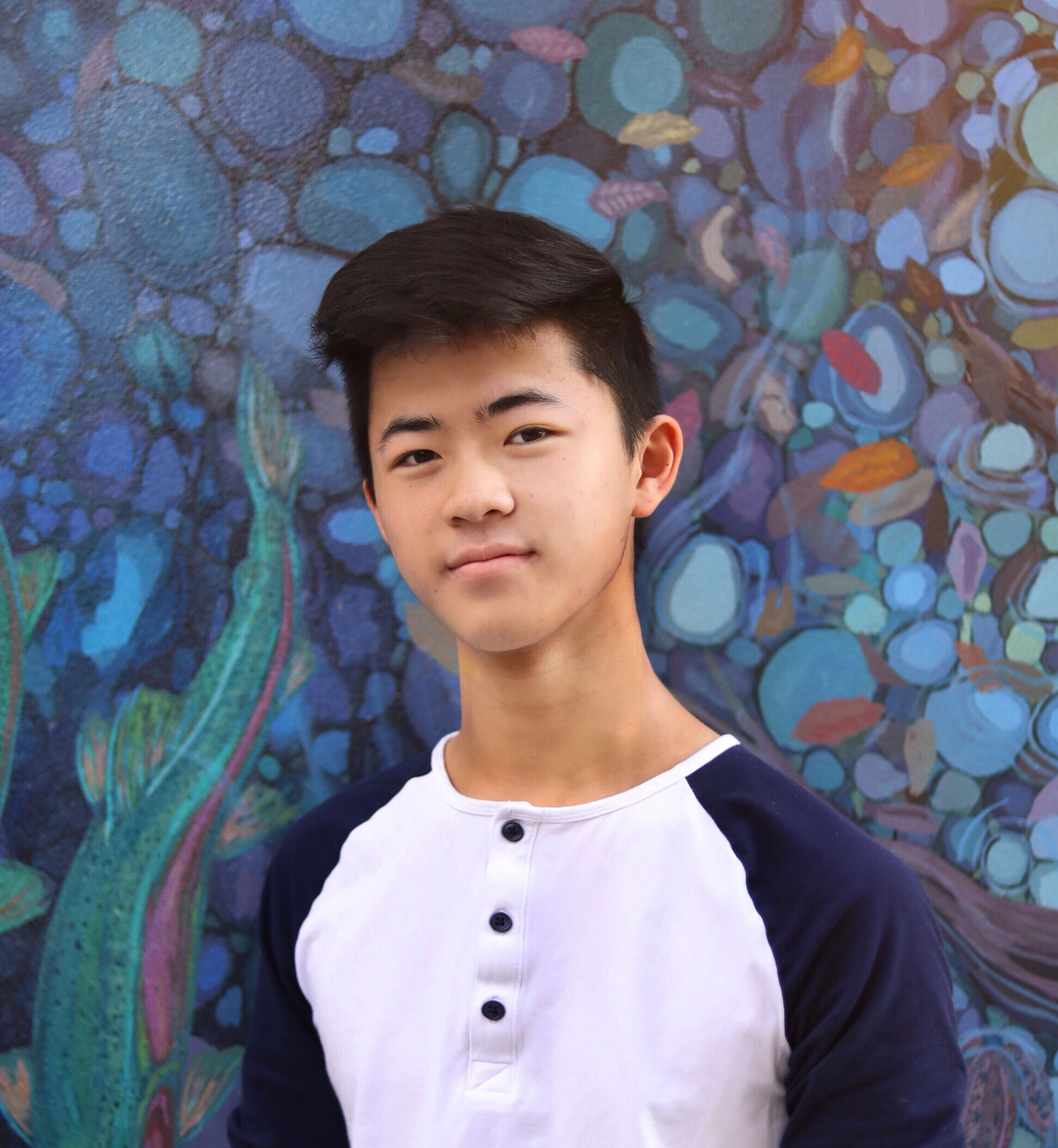
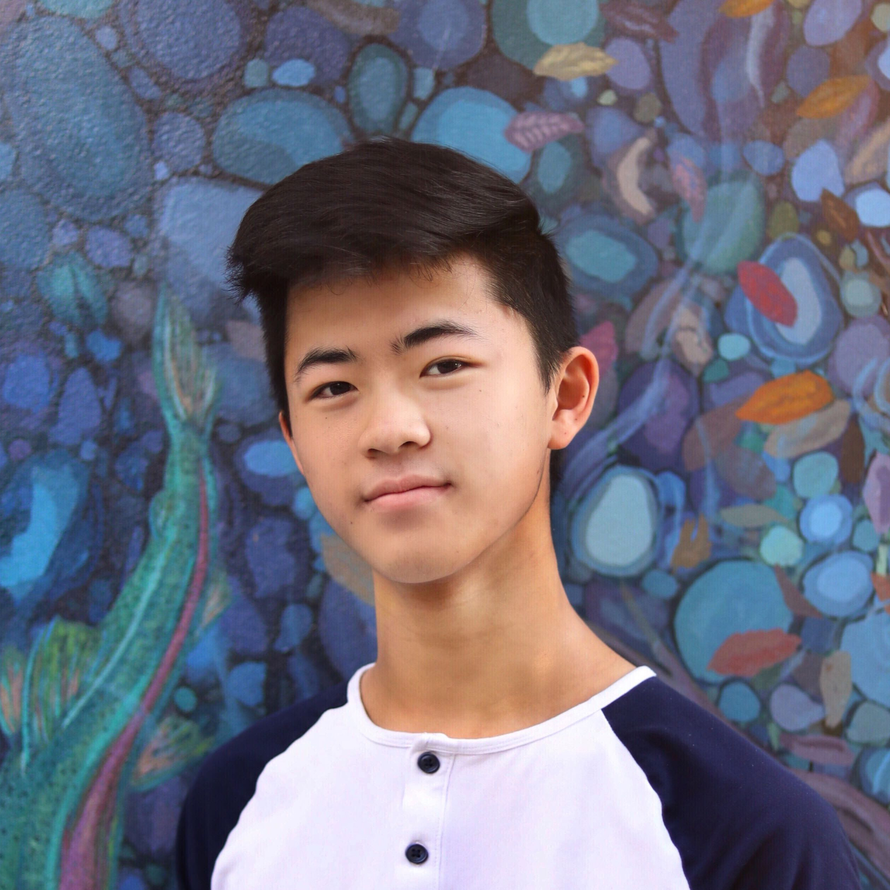
Update to about.html
Including the updated headshots for California Team.

diff --git a/about.html b/about.html
@@ -173,7 +173,7 @@ header: About
     </div>
     <div class="about-team">
       <div class="about-team-image">
-        <img src="/assets/about_images/sean_about_image.jpg" />
+        <img src="/assets/about_images/sean_about_image.png" />
       </div>
       <div class="about-team-info">
         <div class="about-team-info-header">
